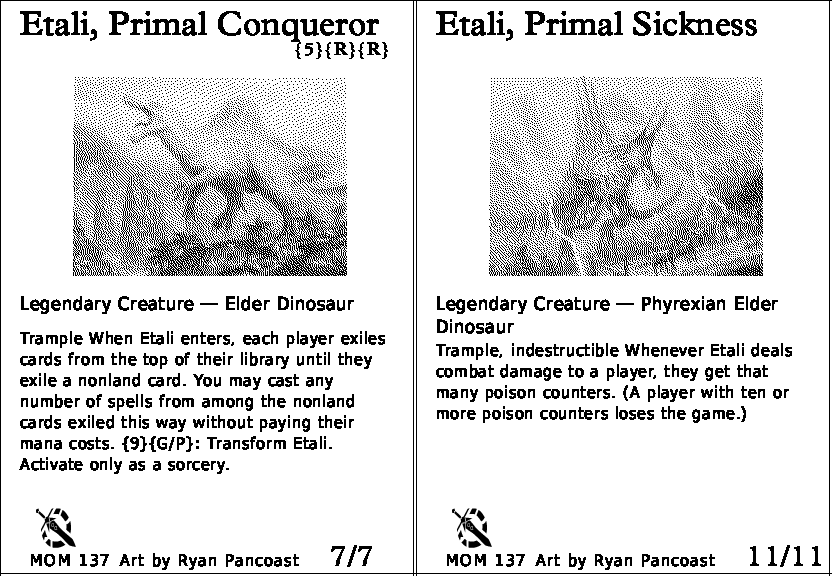
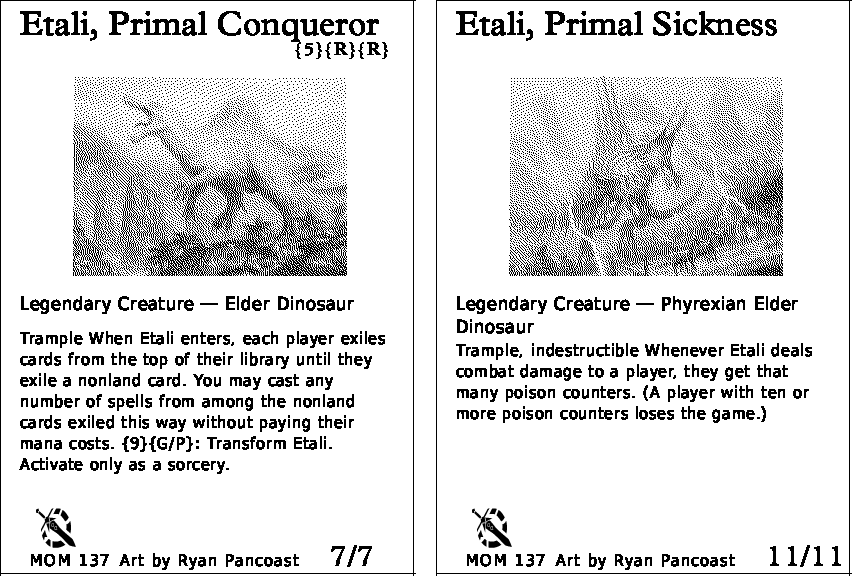
for mdfc include a buffer now that we're printing the whole image at once

Changed region(s): [[0.0312, 0.0, 0.9688, 1.0], [0.0312, 0.875, 0.375, 1.0], [0.9062, 0.9375, 0.9688, 1.0]]

diff --git a/oracle_escpos/src/card/image_gen.rs b/oracle_escpos/src/card/image_gen.rs
@@ -155,10 +155,22 @@ impl<'a> CardRenderer for MDFCCardRenderer<'a> {
         let front_img = render_card_face(self.card, Some(&faces[0]), layout).await?;
         let back_img = render_card_face(self.card, Some(&faces[1]), layout).await?;
 
-        // Composite side-by-side
-        let mut composed = RgbImage::new(front_img.width() * 2, front_img.height());
+        // Composite side-by-side with 20 px white buffer
+        let buffer = 20;
+
+        let mut composed = RgbImage::from_pixel(
+            front_img.width() * 2 + buffer,
+            front_img.height(),
+            Rgb([255, 255, 255]),
+        );
+
         imageops::overlay(&mut composed, &front_img, 0, 0);
-        imageops::overlay(&mut composed, &back_img, front_img.width() as i64, 0);
+        imageops::overlay(
+            &mut composed,
+            &back_img,
+            (front_img.width() + buffer) as i64,
+            0,
+        );
 
         Ok(composed)
     }
